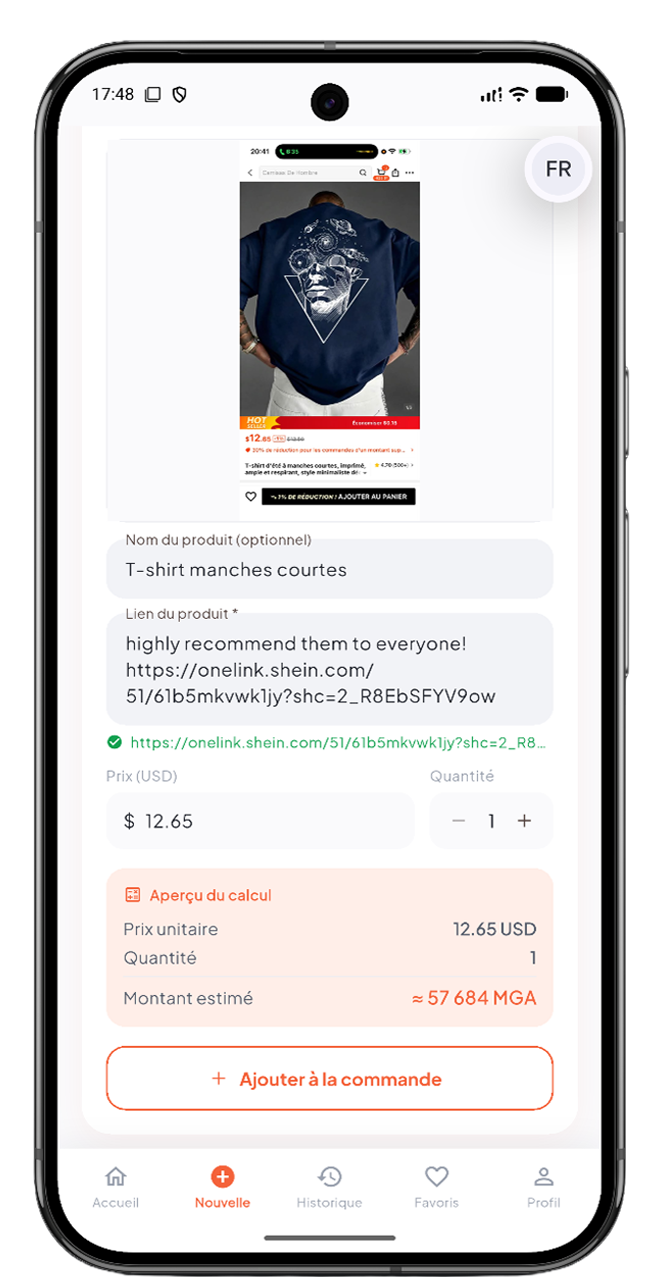
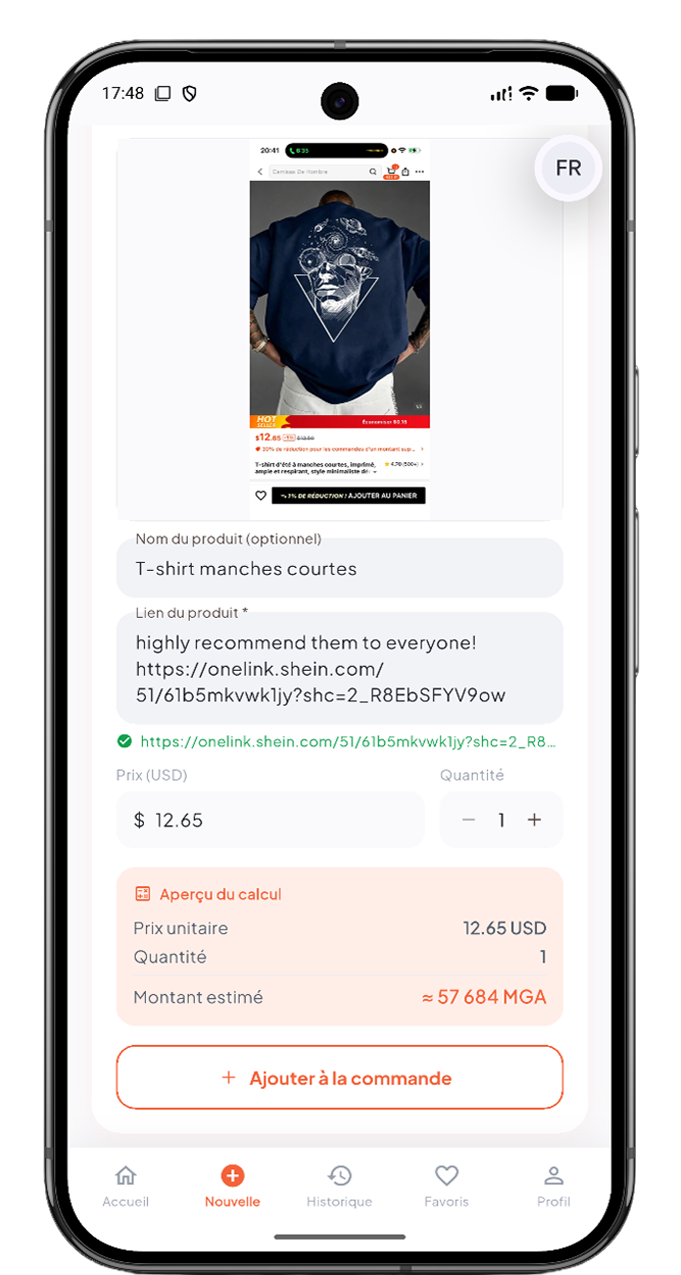
Mise a jour page taille du capture

diff --git a/src/sections/Captures.jsx b/src/sections/Captures.jsx
@@ -9,44 +9,47 @@ export default function Captures() {
           <h2 className="text-3xl sm:text-4xl mb-4">
             À quoi ça ressemble
           </h2>
+
           <p className="text-lg text-texte-moyen leading-relaxed">
             Quelques écrans de l'application.
           </p>
         </Apparition>
       </div>
 
-      {/* Défilement horizontal avec accélération fluide (-webkit-overflow-scrolling) */}
-      <div className="overflow-x-auto pb-4 -mx-5 px-5 sm:mx-0 sm:px-0 scrollbar-none [webkit-overflow-scrolling:touch]">
+      <div className="overflow-x-auto pt-6 pb-6 -mx-5 px-5 sm:mx-0 sm:px-0 scrollbar-none [webkit-overflow-scrolling:touch]">
         <div className="conteneur">
-          <div className="flex gap-4 sm:grid sm:grid-cols-3 lg:grid-cols-6 sm:gap-y-10">
-            {captures.map((capture, index) => (
-              <Apparition
-                key={capture.fichier}
-                delai={index * 60} // Délai plus court sur mobile pour un effet réactif
-                as="figure"
-                className="shrink-0 w-[220px] sm:w-auto flex flex-col"
-              >
-                <div className="flex h-[320px] sm:h-[340px] items-end justify-center">
-                  <img
-                    src={capture.fichier}
-                    alt={`${capture.titre} — ${capture.legende}`}
-                    loading="lazy"
-                    width={220}
-                    height={340}
-                    className="h-full max-h-[320px] sm:max-h-[340px] w-auto max-w-[200px] sm:max-w-[220px] object-contain transition-transform duration-300 sm:hover:-translate-y-2 sm:hover:scale-105 will-change-transform"
-                  />
-                </div>
+          <div className="flex gap-5 sm:grid sm:grid-cols-3 lg:grid-cols-6 sm:gap-x-6 sm:gap-y-12 items-start">
+            {captures.map((capture, index) => {
+              return (
+                <Apparition
+                  key={capture.fichier}
+                  delai={index * 60}
+                  as="figure"
+                  className="shrink-0 w-[180px] sm:w-auto min-w-0 flex flex-col items-center overflow-visible"
+                >
+                  {/* Téléphone */}
+                  <div className="h-[350px] w-full flex items-end justify-center">
+                    <img
+                      src={capture.fichier}
+                      alt={`${capture.titre} — ${capture.legende}`}
+                      loading="lazy"
+                      className="h-[350px] w-auto max-w-full object-contain transition-transform duration-300 origin-bottom sm:hover:-translate-y-2 sm:hover:scale-105 will-change-transform"
+                    />
+                  </div>
 
-                <figcaption className="mt-auto pt-4 text-center sm:text-left">
-                  <p className="font-semibold text-texte-fort text-sm">
-                    {capture.titre}
-                  </p>
-                  <p className="text-xs text-texte-moyen mt-0.5 leading-snug">
-                    {capture.legende}
-                  </p>
-                </figcaption>
-              </Apparition>
-            ))}
+                  {/* Texte */}
+                  <figcaption className="pt-4 text-center sm:text-left w-full min-h-[90px]">
+                    <p className="font-semibold text-texte-fort text-sm">
+                      {capture.titre}
+                    </p>
+
+                    <p className="text-xs text-texte-moyen mt-0.5 leading-snug">
+                      {capture.legende}
+                    </p>
+                  </figcaption>
+                </Apparition>
+              );
+            })}
           </div>
         </div>
       </div>
